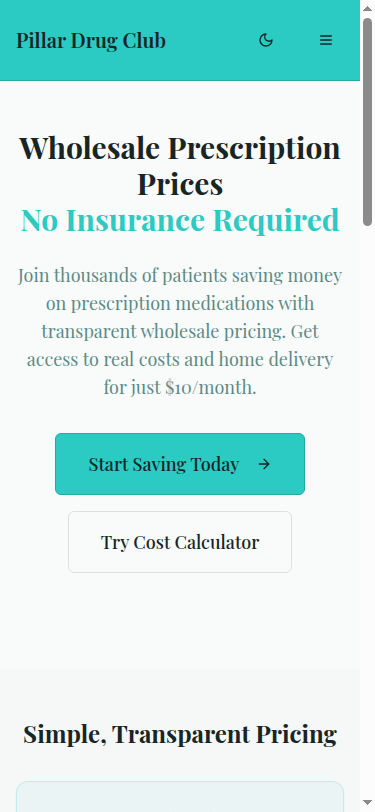
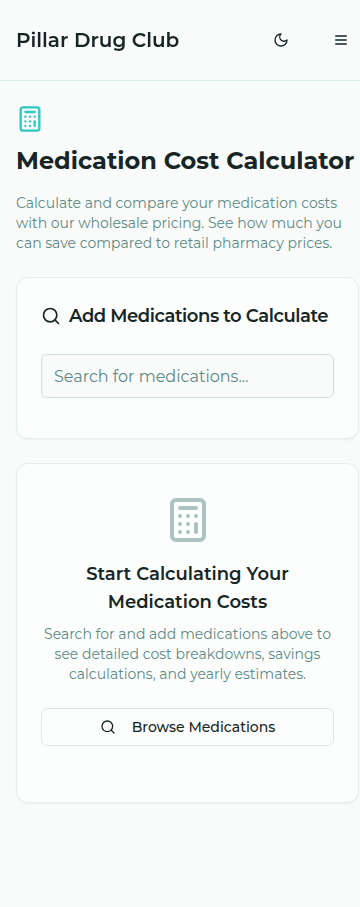
Update website design to use Montserrat font and adjust header colors
Integrates the Montserrat font across the entire application and modifies header component styling, including background and text colors, to align with the new design.

Replit-Commit-Author: Agent
Replit-Commit-Session-Id: 10b2c25f-2054-4dad-a20c-76234d21716b
Replit-Commit-Checkpoint-Type: full_checkpoint
Replit-Commit-Screenshot-Url: https://storage.googleapis.com/screenshot-production-us-central1/e9839ded-e32d-4a37-a3cc-95c48237f83a/10b2c25f-2054-4dad-a20c-76234d21716b/s3QPEUX

diff --git a/client/src/components/Header.tsx b/client/src/components/Header.tsx
@@ -16,13 +16,13 @@ export default function Header() {
   ];
 
   return (
-    <header className="sticky top-0 z-50 w-full bg-primary backdrop-blur-lg border-b border-primary-foreground/20">
+    <header className="sticky top-0 z-50 w-full bg-background/80 backdrop-blur-lg border-b border-primary/20">
       <div className="container mx-auto px-4 sm:px-6 lg:px-8 max-w-6xl">
         <div className="flex h-20 items-center justify-between">
           {/* Logo */}
           <div className="flex items-center">
             <div className="flex-shrink-0">
-              <span className="text-xl font-semibold text-white" data-testid="text-logo">
+              <span className="text-xl font-semibold text-foreground" data-testid="text-logo">
                 Pillar Drug Club
               </span>
             </div>
@@ -35,7 +35,7 @@ export default function Header() {
                 <a
                   key={item.name}
                   href={item.href}
-                  className="text-sm font-medium text-white/80 transition-colors hover:text-white"
+                  className="text-sm font-medium text-muted-foreground transition-colors hover:text-foreground"
                   data-testid={`link-${item.name.toLowerCase().replace(/\s+/g, '-')}`}
                 >
                   {item.name}
@@ -51,7 +51,7 @@ export default function Header() {
               size="icon"
               onClick={toggleTheme}
               data-testid="button-theme-toggle"
-              className="text-white hover:bg-white/10"
+              className=""
             >
               {theme === "dark" ? (
                 <Sun className="h-4 w-4" />
@@ -62,12 +62,12 @@ export default function Header() {
             
             <div className="hidden md:flex items-center space-x-4">
               <a href="/login">
-                <Button variant="ghost" className="font-medium text-white hover:bg-white/10" data-testid="button-login">
+                <Button variant="ghost" className="font-medium" data-testid="button-login">
                   Sign in
                 </Button>
               </a>
               <a href="/register">
-                <Button variant="secondary" className="font-medium px-6" data-testid="button-signup">
+                <Button className="font-medium px-6" data-testid="button-signup">
                   Get started
                 </Button>
               </a>
@@ -80,7 +80,7 @@ export default function Header() {
                 size="icon"
                 onClick={() => setIsMenuOpen(!isMenuOpen)}
                 data-testid="button-mobile-menu"
-                className="relative z-50 text-white hover:bg-white/10"
+                className="relative z-50"
               >
                 {isMenuOpen ? (
                   <X className="h-5 w-5" />
@@ -96,11 +96,11 @@ export default function Header() {
         {isMenuOpen && (
           <div className="fixed inset-0 z-40 md:hidden">
             <div className="fixed inset-0 bg-black/50" onClick={() => setIsMenuOpen(false)} />
-            <div className="fixed top-0 right-0 bottom-0 w-full max-w-sm bg-primary shadow-xl">
+            <div className="fixed top-0 right-0 bottom-0 w-full max-w-sm bg-background shadow-xl">
               <div className="flex flex-col h-full">
                 <div className="px-6 py-4 border-b">
                   <div className="flex items-center gap-2">
-                    <span className="text-xl font-semibold text-white">Pillar Drug Club</span>
+                    <span className="text-xl font-semibold">Pillar Drug Club</span>
                   </div>
                 </div>
                 <div className="flex-1 px-6 py-6 space-y-6">
@@ -108,7 +108,7 @@ export default function Header() {
                     <a
                       key={item.name}
                       href={item.href}
-                      className="block text-lg font-medium text-white hover:text-white/80 transition-colors py-2"
+                      className="block text-lg font-medium text-foreground hover:text-primary transition-colors py-2"
                       onClick={() => setIsMenuOpen(false)}
                       data-testid={`mobile-link-${item.name.toLowerCase().replace(/\s+/g, '-')}`}
                     >
@@ -118,12 +118,12 @@ export default function Header() {
                 </div>
                 <div className="px-6 py-6 border-t space-y-3">
                   <a href="/login" onClick={() => setIsMenuOpen(false)}>
-                    <Button variant="outline" className="w-full font-medium border-white/30 text-white hover:bg-white/10" data-testid="mobile-button-login">
+                    <Button variant="outline" className="w-full font-medium" data-testid="mobile-button-login">
                       Sign in
                     </Button>
                   </a>
                   <a href="/register" onClick={() => setIsMenuOpen(false)}>
-                    <Button variant="secondary" className="w-full font-medium" data-testid="mobile-button-signup">
+                    <Button className="w-full font-medium" data-testid="mobile-button-signup">
                       Get started
                     </Button>
                   </a>

diff --git a/client/index.html b/client/index.html
@@ -7,7 +7,7 @@
     <meta name="description" content="Save up to 80% on prescription medications with our membership-based pharmacy. No insurance needed - get wholesale prices directly with transparent pricing and convenient delivery.">
     <link rel="preconnect" href="https://fonts.googleapis.com">
     <link rel="preconnect" href="https://fonts.gstatic.com" crossorigin>
-    <link href="https://fonts.googleapis.com/css2?family=Playfair+Display:ital,wght@0,400..900;1,400..900&display=swap" rel="stylesheet">
+    <link href="https://fonts.googleapis.com/css2?family=Montserrat:ital,wght@0,100..900;1,100..900&display=swap" rel="stylesheet">
   </head>
   <body>
     <div id="root"></div>

diff --git a/client/src/index.css b/client/src/index.css
@@ -76,9 +76,9 @@
   --chart-4: 177 30% 35%;
   --chart-5: 177 55% 40%;
 
-  --font-sans: 'Playfair Display', serif;
-  --font-serif: 'Playfair Display', serif;
-  --font-display: 'Playfair Display', serif;
+  --font-sans: 'Montserrat', sans-serif;
+  --font-serif: 'Montserrat', sans-serif;
+  --font-display: 'Montserrat', sans-serif;
   --font-mono: Menlo, monospace;
   --radius: .5rem; /* 8px */
   --shadow-2xs: 0px 2px 0px 0px hsl(177 20% 20% / 0.02);
